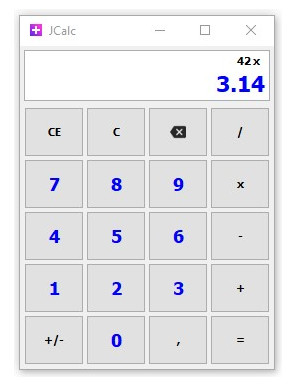
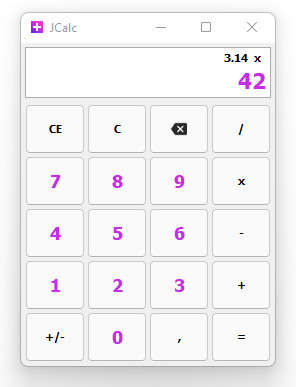
Display interface unified

diff --git a/src/main/java/br/com/margel/jcalc/view/JFCalc.java b/src/main/java/br/com/margel/jcalc/view/JFCalc.java
@@ -23,6 +23,7 @@ import br.com.margel.jcalc.business.CalcOp;
 import br.com.margel.jcalc.business.Display;
 import br.com.margel.jcalc.view.config.BtnConfig;
 import br.com.margel.jcalc.view.listeners.CalKeyListener;
+import br.com.margel.jcalc.view.utils.AppColors;
 import br.com.margel.jcalc.view.utils.ImageUtils;
 import net.miginfocom.layout.CC;
 import net.miginfocom.layout.LC;
@@ -37,8 +38,8 @@ public class JFCalc extends JFrame implements Display{
 			dg("1"),  dg("2"), dg("3"), op(ADD),
 			sg("+/-"),dg("0"), cm(","), eq("=")
 	);
-	private JTextField current = createTextField("",  11f, Color.BLACK);
-	private JTextField display = createTextField("0", 22f, Color.BLUE);
+	private JTextField current = createTextField("",  11f, AppColors.SECONDARY_TEXT_COLOR);
+	private JTextField display = createTextField("0", 22f, AppColors.HIGHLIGHTED_TEXT_COLOR);
 	private JLabel signal =  new JLabel();
 	private Calc calc = new Calc(this);
 	
@@ -62,7 +63,7 @@ public class JFCalc extends JFrame implements Display{
 	private JPanel createDisplayPanel() {
 		JPanel panel = new JPanel(new MigLayout(new LC().gridGap("0","0").fill().insetsAll("2")));
 		panel.setOpaque(true);
-		panel.setBackground(Color.WHITE);
+		panel.setBackground(AppColors.BACKGROUND_COLOR);
 		panel.setBorder(UIManager.getBorder("TextField.border"));
 		panel.add(current, new CC().minWidth("0" ).alignX("right").grow().spanX().split());
 		panel.add(signal,  new CC().minWidth("12").gapRight("2").wrap());
@@ -71,7 +72,7 @@ public class JFCalc extends JFrame implements Display{
 	}
 	private JTextField createTextField(String text, float fs, Color fg) {
 		JTextField field = new JTextField(text);
-		field.setBorder(new LineBorder(Color.WHITE));
+		field.setBorder(new LineBorder(AppColors.BACKGROUND_COLOR));
 		field.setOpaque(false);
 		field.setEditable(false);
 		field.setFocusable(false);
@@ -98,18 +99,18 @@ public class JFCalc extends JFrame implements Display{
 	public void setDisplayText(String text) {
 		display.setText(text);
 	}
+	public void setDisplayValue(BigDecimal value) {
+		setDisplayText(format(value));
+	}
 	public Calc getCalc() {
 		return calc;
 	}
 	
 	@Override
-	public void printOperation(BigDecimal value, CalcOp calcOp) {
+	public void updateDisplay(BigDecimal value, CalcOp calcOp, BigDecimal result) {
 		signal.setText(String.valueOf(calcOp==null?"":calcOp));
 		current.setText(format(value));
-	}
-	@Override
-	public void printResult(BigDecimal value) {
-		setDisplayText(format(value));
+		setDisplayValue(result);
 	}
 	
 	private String format(BigDecimal value) {

diff --git a/src/test/java/br/com/margel/jcalc/business/CalcTest.java b/src/test/java/br/com/margel/jcalc/business/CalcTest.java
@@ -73,8 +73,7 @@ public class CalcTest {
 		.operation(null, opMult)
 		.execute(new BigDecimal("2"));
 
-		Mockito.verify(display, Mockito.times(4)).printOperation(currentValueCaptor.capture(), opCaptor.capture());
-		Mockito.verify(display, Mockito.times(4)).printResult(resultCaptor.capture());
+		Mockito.verify(display, Mockito.times(4)).updateDisplay(currentValueCaptor.capture(), opCaptor.capture(), resultCaptor.capture());
 
 		assertEquals(opAdd, opCaptor.getAllValues().get(0));
 		assertEquals(new BigDecimal("20"), currentValueCaptor.getAllValues().get(0));
@@ -98,8 +97,7 @@ public class CalcTest {
 		CalcOp opAdd = new Add();
 		calc.operation(new BigDecimal("20"), opAdd);
 		calc.resetCalc();
-		Mockito.verify(display, Mockito.times(2)).printOperation(currentValueCaptor.capture(), opCaptor.capture());
-		Mockito.verify(display, Mockito.times(2)).printResult(resultCaptor.capture());
+		Mockito.verify(display, Mockito.times(2)).updateDisplay(currentValueCaptor.capture(), opCaptor.capture(), resultCaptor.capture());
 		
 		assertEquals(opAdd, opCaptor.getAllValues().get(0));
 		assertEquals(new BigDecimal("20"), currentValueCaptor.getAllValues().get(0));

diff --git a/src/main/java/br/com/margel/jcalc/view/config/BtnConfigFactory.java b/src/main/java/br/com/margel/jcalc/view/config/BtnConfigFactory.java
@@ -1,6 +1,5 @@
 package br.com.margel.jcalc.view.config;
 
-import java.awt.Color;
 import java.awt.Font;
 import java.awt.event.KeyEvent;
 
@@ -8,11 +7,12 @@ import br.com.margel.jcalc.view.actions.ActionBackspace;
 import br.com.margel.jcalc.view.actions.ActionClear;
 import br.com.margel.jcalc.view.actions.ActionClearAll;
 import br.com.margel.jcalc.view.actions.ActionComma;
-import br.com.margel.jcalc.view.actions.ActionNumber;
 import br.com.margel.jcalc.view.actions.ActionEqual;
+import br.com.margel.jcalc.view.actions.ActionNumber;
 import br.com.margel.jcalc.view.actions.ActionOperation;
 import br.com.margel.jcalc.view.actions.ActionSignal;
 import br.com.margel.jcalc.view.actions.Operation;
+import br.com.margel.jcalc.view.utils.AppColors;
 import br.com.margel.jcalc.view.utils.ImageUtils;
 
 public class BtnConfigFactory {
@@ -21,7 +21,7 @@ public class BtnConfigFactory {
 		return new BtnConfig(text, new ActionNumber(), text)
 				.formatter(btn->{
 					btn.setFont(btn.getFont().deriveFont(Font.BOLD, 18f));
-					btn.setForeground(Color.BLUE);
+					btn.setForeground(AppColors.HIGHLIGHTED_TEXT_COLOR);
 				});
 	}
 	

diff --git a/src/main/java/br/com/margel/jcalc/business/Calc.java b/src/main/java/br/com/margel/jcalc/business/Calc.java
@@ -16,8 +16,7 @@ public class Calc {
 			currentValue = inOperation()?applyOperation(value):value;
 		}
 		this.calcOp = calcOp;
-		displayCurrentOperation();
-		displayResult(null);
+		updateDisplay(null);
 		return this;
 	}
 
@@ -33,8 +32,7 @@ public class Calc {
 	private void resetAndShowResult(BigDecimal result) {
 		currentValue = null;
 		calcOp = null;
-		displayCurrentOperation();
-		displayResult(result);
+		updateDisplay(result);
 	}
 	
 	public void resetCalc() {
@@ -45,12 +43,8 @@ public class Calc {
 		return calcOp.apply(currentValue, value);
 	}
 
-	private void displayResult(BigDecimal result) {
-		display.printResult(result);
-	}
-	
-	private void displayCurrentOperation() {
-		display.printOperation(currentValue, calcOp);
+	private void updateDisplay(BigDecimal result) {
+		display.updateDisplay(currentValue, calcOp, result);
 	}
 
 	public boolean inOperation() {

diff --git a/src/main/java/br/com/margel/jcalc/view/listeners/CalKeyListener.java b/src/main/java/br/com/margel/jcalc/view/listeners/CalKeyListener.java
@@ -16,7 +16,7 @@ public class CalKeyListener extends KeyAdapter{
 	
 	@Override
 	public void keyPressed(KeyEvent e) {
-		String keyChar = Character.toString(e.getKeyChar()).replace("","").trim().toLowerCase();
+		String keyChar = Character.toString(e.getKeyChar()).replace("\u007F","").trim().toLowerCase();
 		String keyText = KeyEvent.getKeyText(e.getKeyCode());
 		for (BtnConfig cfg : buttons) {
 			if(cfg.readKey(keyChar.isEmpty()?keyText:keyChar)) {

diff --git a/src/main/java/br/com/margel/jcalc/business/Display.java b/src/main/java/br/com/margel/jcalc/business/Display.java
@@ -3,6 +3,5 @@ package br.com.margel.jcalc.business;
 import java.math.BigDecimal;
 
 public interface Display {
-	public void printResult(BigDecimal value);
-	public void printOperation(BigDecimal value, CalcOp calcOp);
+	public void updateDisplay(BigDecimal value, CalcOp calcOp, BigDecimal result);
 }

diff --git a/src/main/java/br/com/margel/jcalc/view/utils/AppColors.java b/src/main/java/br/com/margel/jcalc/view/utils/AppColors.java
@@ -1,0 +1,10 @@
+package br.com.margel.jcalc.view.utils;
+
+import java.awt.Color;
+
+public interface AppColors {
+
+	public static Color HIGHLIGHTED_TEXT_COLOR = Color.decode("#c72de6");
+	public static Color SECONDARY_TEXT_COLOR = Color.BLACK;
+	public static Color BACKGROUND_COLOR = Color.WHITE;
+}

diff --git a/src/main/java/br/com/margel/jcalc/view/actions/ActionNumber.java b/src/main/java/br/com/margel/jcalc/view/actions/ActionNumber.java
@@ -14,7 +14,7 @@ public class ActionNumber implements BiConsumer<JFCalc, BtnConfig>{
 		if(text.contains(".") && text.endsWith("0")) {
 			frame.setDisplayText(text);
 		} else {
-			frame.printResult(new BigDecimal(text));
+			frame.setDisplayValue(new BigDecimal(text));
 		}
 	}
 

diff --git a/src/main/java/br/com/margel/jcalc/view/actions/ActionBackspace.java b/src/main/java/br/com/margel/jcalc/view/actions/ActionBackspace.java
@@ -22,7 +22,7 @@ public class ActionBackspace implements BiConsumer<JFCalc, BtnConfig>{
 				frame.setDisplayText("0");
 			}
 		} else {
-			frame.printResult(new BigDecimal(text));
+			frame.setDisplayValue(new BigDecimal(text));
 		}
 	}
 
